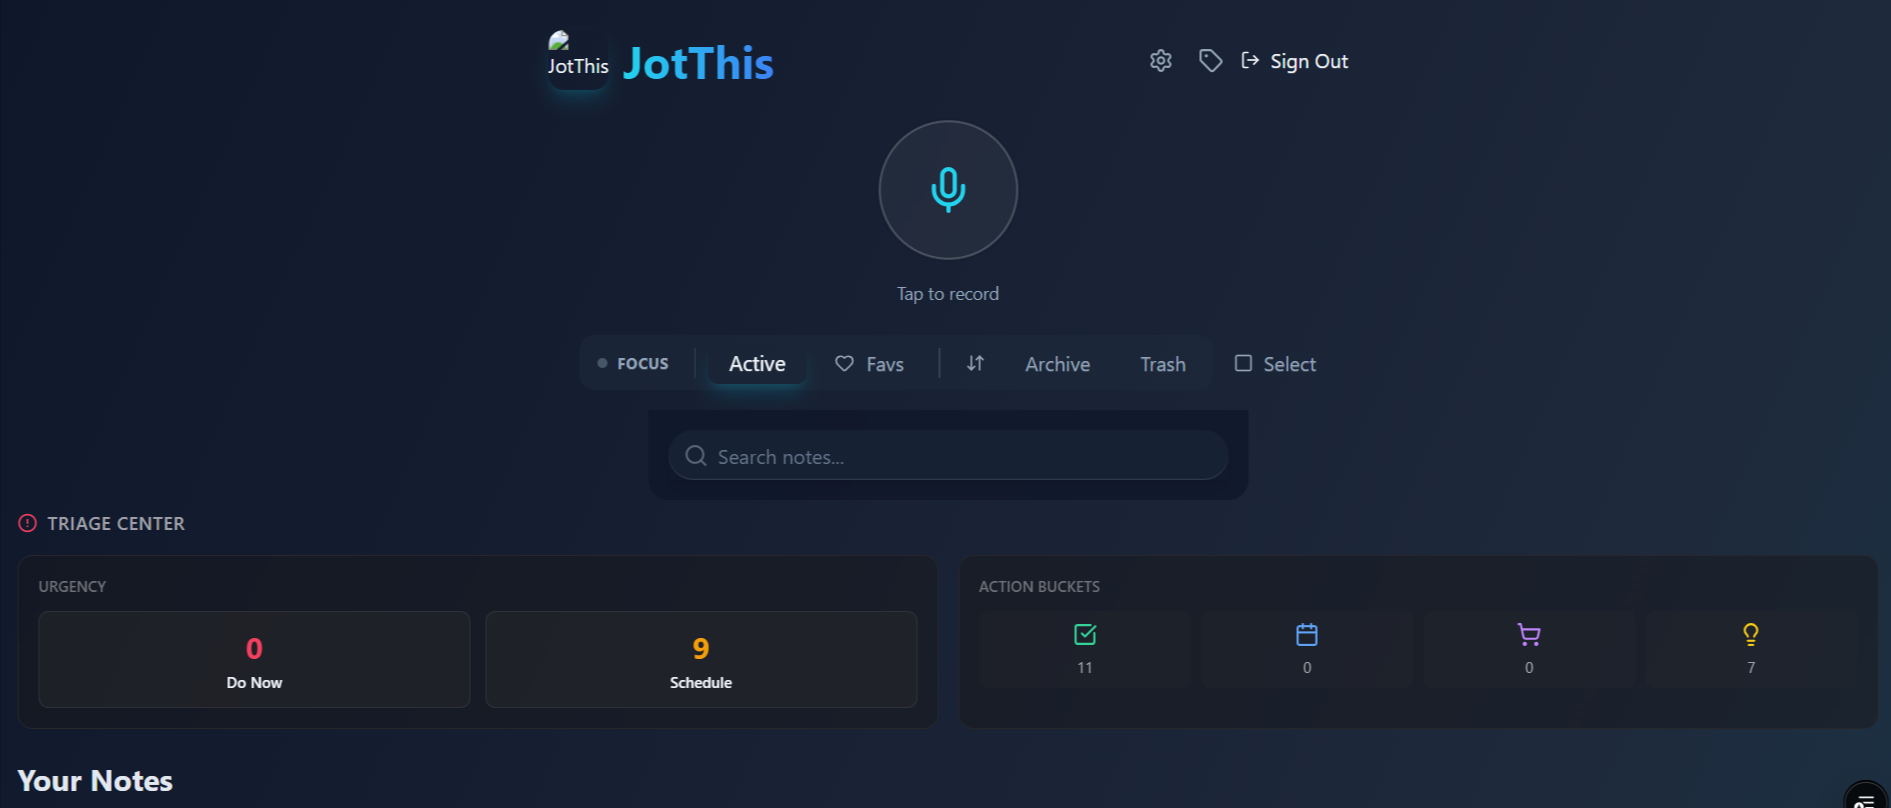
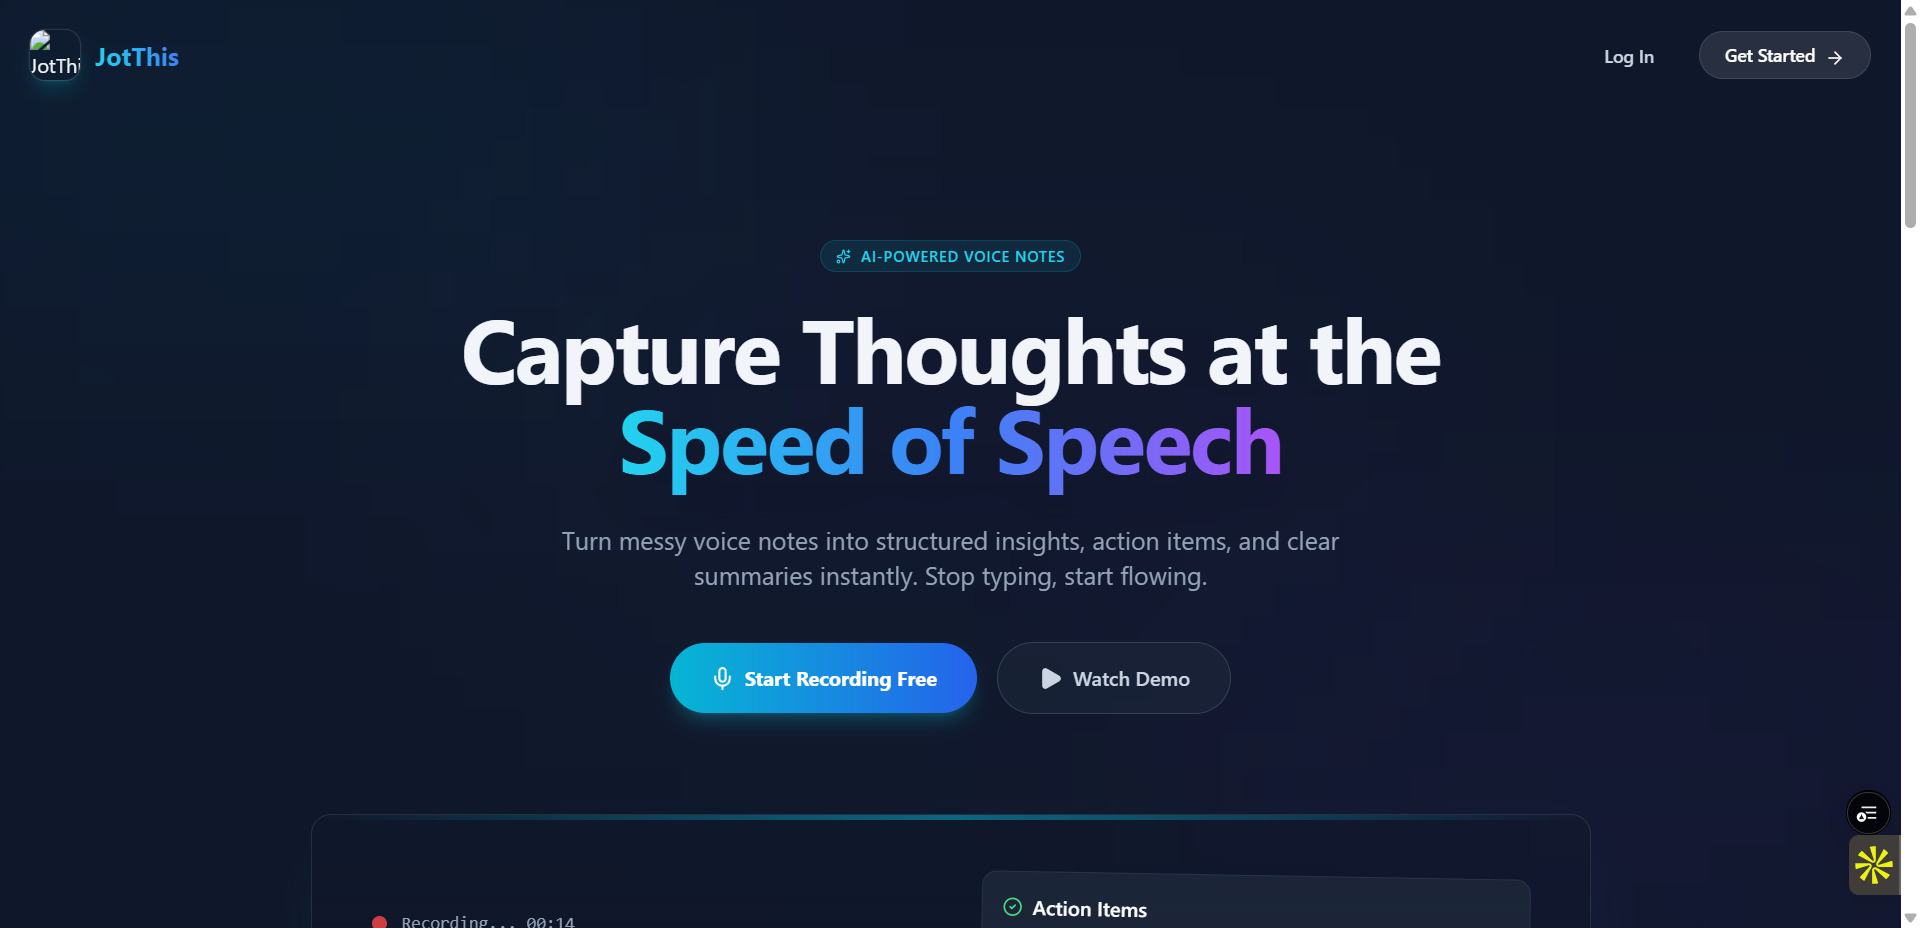
Add 3 new projects and update screenshots for portfolio overhaul
New projects: Grocery PWA, Grocery Voice Processor (n8n), MapleLink Intake Pipeline (n8n)
Updated screenshots: JotThis, LP Landing, Promptor

diff --git a/src/data/projects.ts b/src/data/projects.ts
@@ -65,4 +65,37 @@ export const allProjects: Project[] = [
     imageUrl: "/projects/promptor.png",
     featured: true,
   },
+  {
+    title: "Grocery PWA",
+    slug: "grocery-pwa",
+    description:
+      "Voice-powered grocery list and inventory tracker for the whole family. Multi-speaker support, purchase history, dislike tracking, and category-based inventory view.",
+    tools: ["Next.js", "TypeScript", "n8n", "Neon Postgres", "Claude AI", "Tailwind CSS"],
+    githubUrl: "https://github.com/RW2023/grocery-pwa",
+    liveUrl: "https://grocery-pwa.vercel.app",
+    imageUrl: "/projects/grocery-pwa.png",
+    featured: true,
+  },
+  {
+    title: "Grocery Voice Processor",
+    slug: "grocery-voice-processor",
+    description:
+      "n8n automation workflow that processes voice input into structured grocery items. AI-powered parsing, category detection, and database persistence with multi-speaker support.",
+    tools: ["n8n", "Claude AI", "Neon Postgres", "Webhook", "REST API"],
+    githubUrl: "",
+    liveUrl: "",
+    imageUrl: "/projects/grocery-voice-processor.png",
+    featured: true,
+  },
+  {
+    title: "MapleLink Intake Pipeline",
+    slug: "maplelink-intake",
+    description:
+      "End-to-end lead intake automation. Captures inbound inquiries, scores with AI, routes qualified leads, sends confirmation via Resend, and logs everything to Postgres.",
+    tools: ["n8n", "Claude AI", "Resend", "Neon Postgres", "Webhook", "REST API"],
+    githubUrl: "",
+    liveUrl: "",
+    imageUrl: "/projects/maplelink-intake.png",
+    featured: true,
+  },
 ];

diff --git a/src/components/Navbar.tsx b/src/components/Navbar.tsx
@@ -40,8 +40,7 @@ export default function Navbar() {
     >
       <div className="max-w-6xl mx-auto px-6 flex items-center justify-between h-16">
         <a
-          href="#hero"
-          onClick={() => handleClick("#hero")}
+          href="/"
           className="font-heading text-lg font-bold text-accent tracking-tight"
         >
           RW<span className="text-text-muted">.</span>
